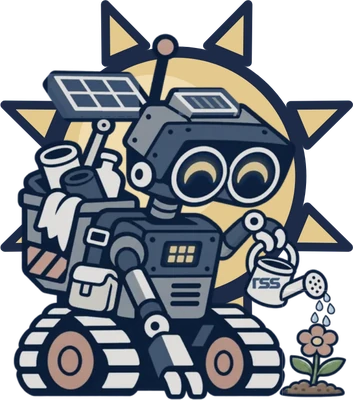
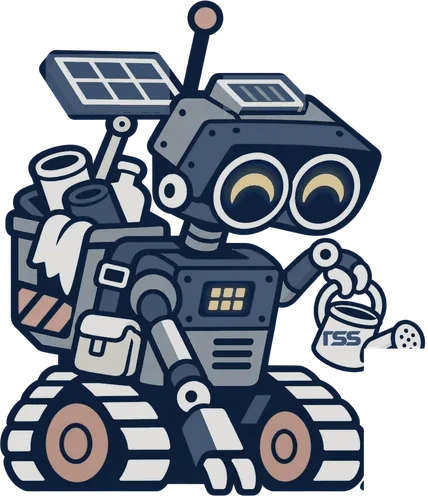
Rook-E in small places is the robot alone, no sun and no flower (#14)
Headers, sign-in, the chat avatar and every small copy now show the
robot only; the full scene (sun and flower) stays in the opening
animations, where there is room to see it.

Claude-Session: https://claude.ai/code/session_015fK5HLvRSh5d3Fi8Pgsn1f

diff --git a/public/index.html b/public/index.html
@@ -20,7 +20,7 @@
   <div class="wally-splash" aria-hidden="true"><img src="/brand/wally-vault.svg" alt=""></div>
   <div id="login" class="login" hidden>
     <div class="card login-card">
-      <h1 class="brandbar brandbar-login"><picture><source srcset="/brand/tss-wordmark-light.webp" media="not all" data-tss-dark><img class="brandbar-tss" src="/brand/tss-wordmark.webp" alt="TSS"></picture><img class="brandbar-icon" src="/brand/vault.png" alt=""><span class="brandbar-name">Vault</span><img class="brandbar-wally" src="/brand/rook-e.webp" alt="Rook-E"></h1>
+      <h1 class="brandbar brandbar-login"><picture><source srcset="/brand/tss-wordmark-light.webp" media="not all" data-tss-dark><img class="brandbar-tss" src="/brand/tss-wordmark.webp" alt="TSS"></picture><img class="brandbar-icon" src="/brand/vault.png" alt=""><span class="brandbar-name">Vault</span><img class="brandbar-wally" src="/brand/rook-e-robot.webp" alt="Rook-E"></h1>
       <p class="muted">The team's workspace: the message board, case notes and the client directory.</p>
       <p id="login-message">You sign in to Vault through Cockpit. Open Vault from Cockpit's app launcher.</p>
       <button id="cockpit-link" type="button" class="primary" hidden>Go to Cockpit</button>
@@ -31,7 +31,7 @@
 
   <div id="app" class="shell" hidden>
     <aside class="side">
-      <a class="brandbar" href="#/"><picture><source srcset="/brand/tss-wordmark-light.webp" media="not all" data-tss-dark><img class="brandbar-tss" src="/brand/tss-wordmark.webp" alt="TSS"></picture><img class="brandbar-icon" src="/brand/vault.png" alt=""><span class="brandbar-name">Vault</span><img class="brandbar-wally" src="/brand/rook-e.webp" alt="Rook-E"></a>
+      <a class="brandbar" href="#/"><picture><source srcset="/brand/tss-wordmark-light.webp" media="not all" data-tss-dark><img class="brandbar-tss" src="/brand/tss-wordmark.webp" alt="TSS"></picture><img class="brandbar-icon" src="/brand/vault.png" alt=""><span class="brandbar-name">Vault</span><img class="brandbar-wally" src="/brand/rook-e-robot.webp" alt="Rook-E"></a>
       <nav class="nav" aria-label="Vault">
         <a href="#/" data-view="home"><svg viewBox="0 0 24 24" aria-hidden="true"><path d="M3.5 11L12 4l8.5 7v9h-5.5v-5.5h-6V20H3.5z"/></svg><span>Home</span></a>
         <a href="#/board" data-view="board"><svg viewBox="0 0 24 24" aria-hidden="true"><path d="M4 5h16v11H9l-5 4z"/></svg><span>Message Board</span></a>

diff --git a/public/sw.js b/public/sw.js
@@ -8,7 +8,7 @@
 const VERSION = new URL(self.location.href).searchParams.get('v') || 'dev';
 const CACHE = `tss-vault-shell-${VERSION}`;
 const SHELL = ['/', '/app.js', '/util.js', '/offline.js', '/importer.js', '/styles.css', '/tss-theme.js', '/tss-nav.js', '/tss-nav.css', '/manifest.webmanifest',
-  '/brand/vault.png', '/brand/tss-wordmark.webp', '/brand/tss-wordmark-light.webp', '/brand/wally.webp', '/brand/wally-vault.svg', '/brand/rook-e.webp', '/brand/splash.js', '/icons/icon-192.png', '/icons/apple-touch-icon.png'];
+  '/brand/vault.png', '/brand/tss-wordmark.webp', '/brand/tss-wordmark-light.webp', '/brand/wally.webp', '/brand/wally-vault.svg', '/brand/rook-e-robot.webp', '/brand/splash.js', '/icons/icon-192.png', '/icons/apple-touch-icon.png'];
 
 function shouldCache(url) {
   let u; try { u = new URL(url, self.location.origin); } catch { return false; }
